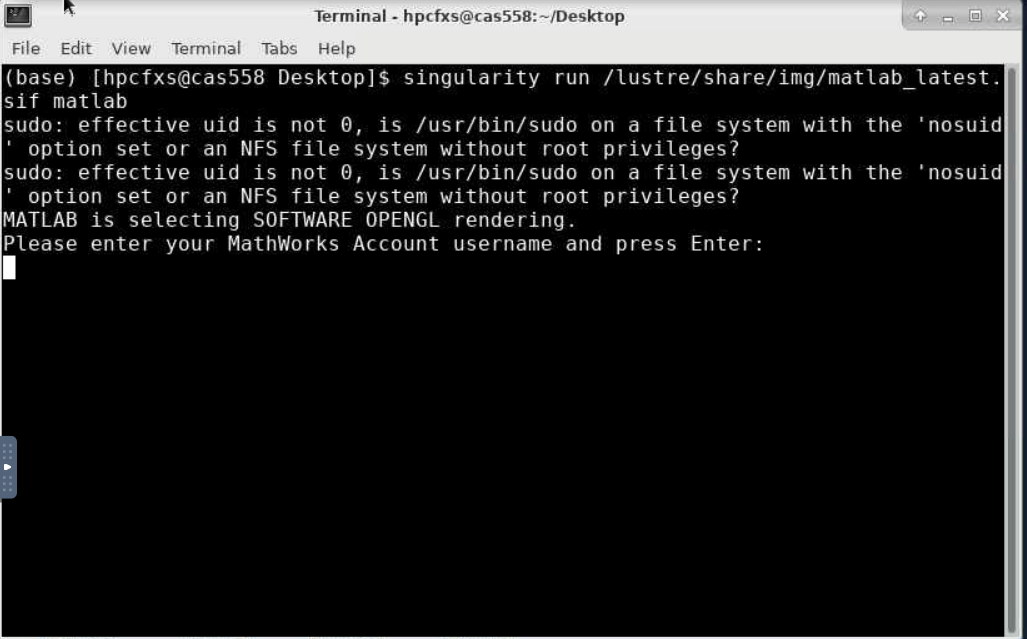
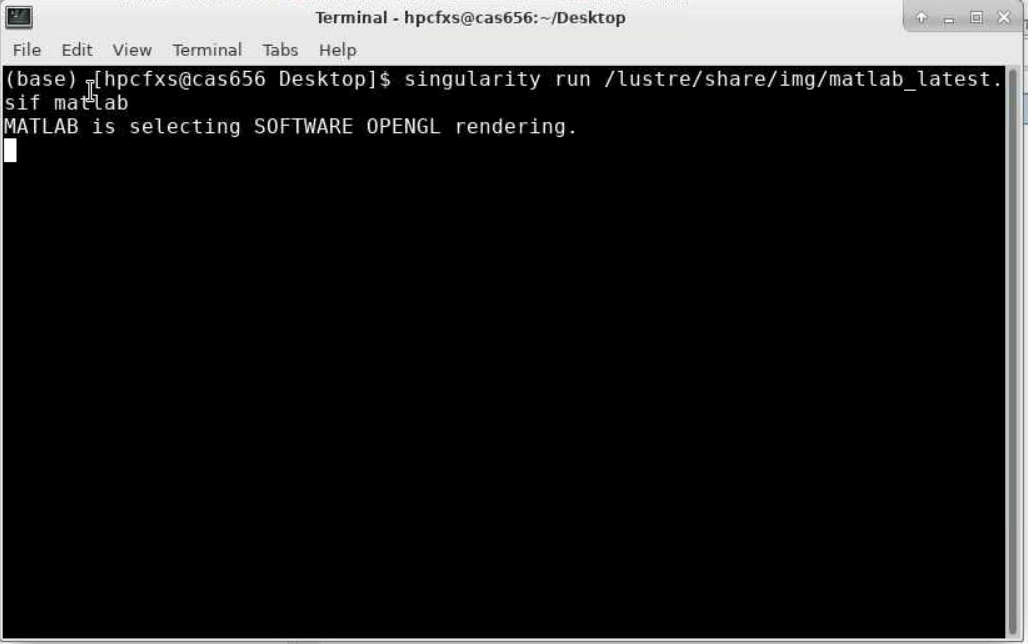
matlab update
update studio matlab usage due to simg change (no need to login)

Changed region(s): [[0.0, 0.0, 1.0, 1.0], [0.0, 0.6541, 0.0312, 0.8028]]

diff --git a/docs/studio/matlab.rst b/docs/studio/matlab.rst
@@ -14,8 +14,6 @@ MATLAB使用说明
 
 远程桌面中点击右键，选择Open Terminal Here打开终端，在终端中使用命令 "singularity run /lustre/share/img/matlab_latest.sif matlab"
 
-提示需要输入账号密码，输入MathWorks个人账号密码登陆（使用交大邮箱注册MathWorks账号可获得academic license），其中username为邮箱名
-
 启动后即可使用MATLAB R2021a
 
 .. image:: ../img/matlab03.png
